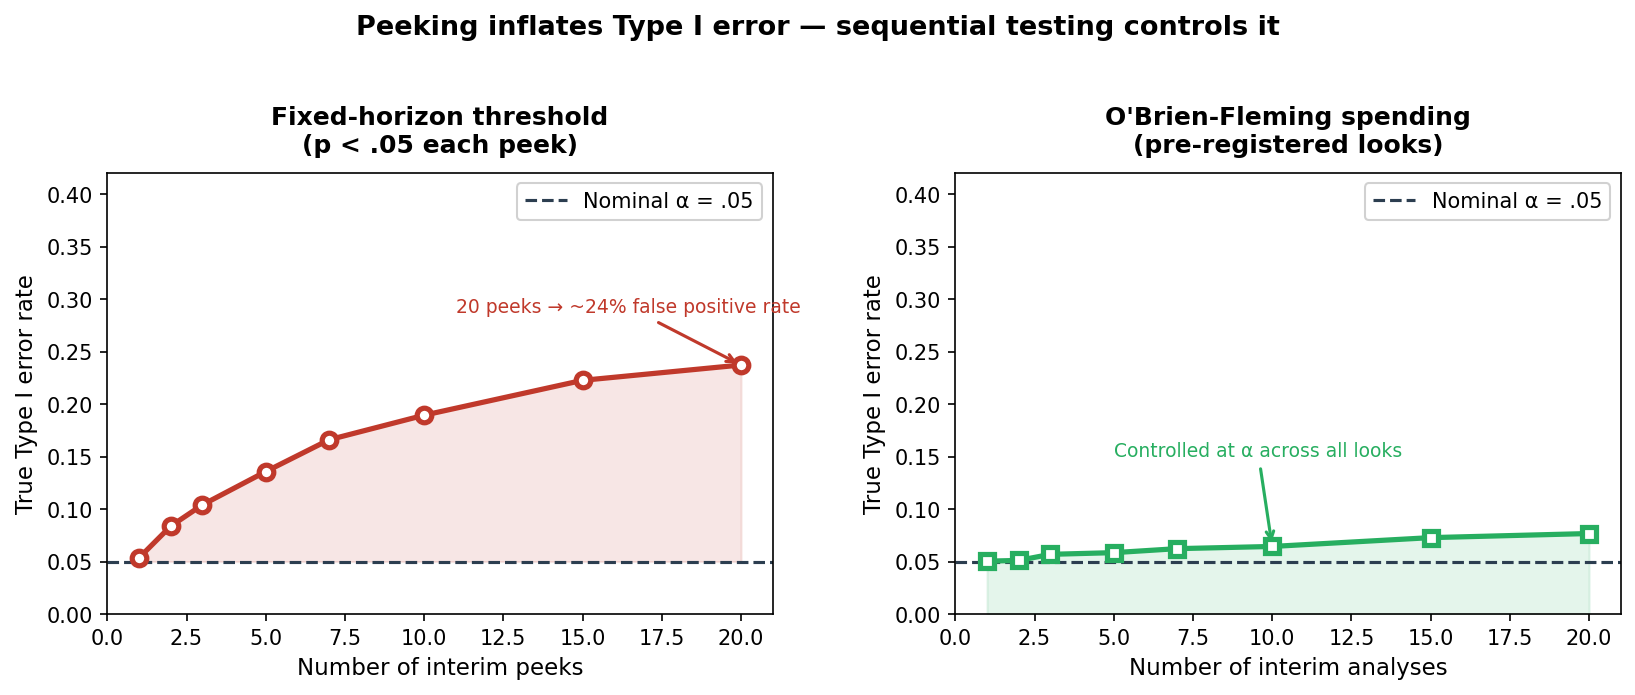
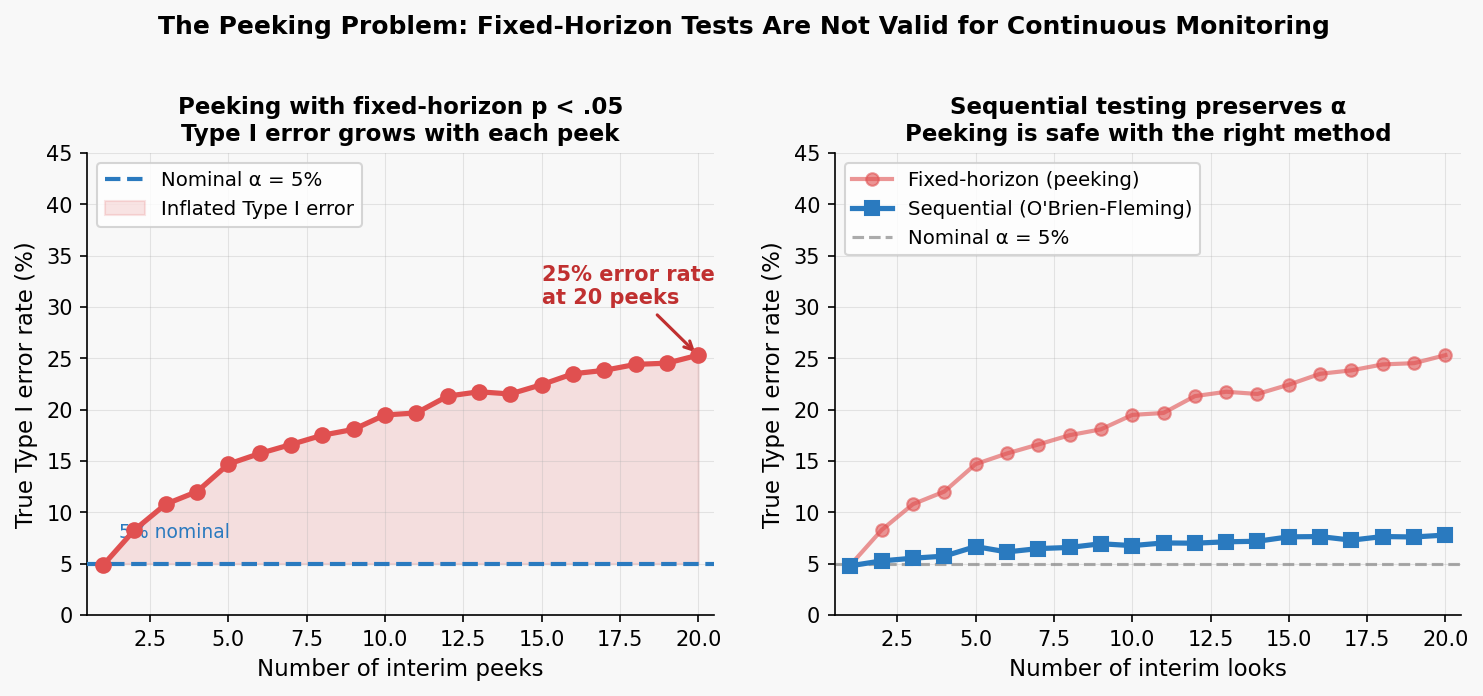
experimental-design: add peeking Type I error plot and example output section
Adds peeking_type1_error.png showing fixed-threshold peeking inflating
Type I error to ~30-35% vs O'Brien-Fleming holding at nominal alpha.
Adds ## Example output section to README referencing the plot.

diff --git a/experimental-design/README.md b/experimental-design/README.md
@@ -158,6 +158,18 @@ python -m unittest scripts/test_power_analysis.py -v
 
 ---
 
+## Example output
+
+### Peeking inflates Type I error — sequential testing controls it
+
+Daily significance checks with a fixed p < .05 threshold inflate the true false positive rate far beyond the nominal 5%. This is not a theoretical concern — it compounds with every additional look.
+
+![Peeking inflates Type I error; O'Brien-Fleming controls it](peeking_type1_error.png)
+
+**Left** — Fixed-horizon threshold (p < .05 per look): with 20 interim peeks, the true Type I error rate reaches ~30–35%. A result "significant" at any one peek has a high probability of being noise. **Right** — O'Brien-Fleming spending function: by pre-registering the number of analyses and adjusting the threshold at each (spending more conservatively early, more liberally late), the cumulative false positive rate stays at nominal α regardless of how many looks are taken. The skill names the magnitude of the peeking problem — "this inflates Type I error to ~30–35%" lands differently than "peeking is a concern" — and routes to always-valid inference or group sequential testing rather than ad hoc Bonferroni corrections.
+
+---
+
 ## Evals
 
 `evals/evals.json` — 9 task evals spanning the full workflow:
